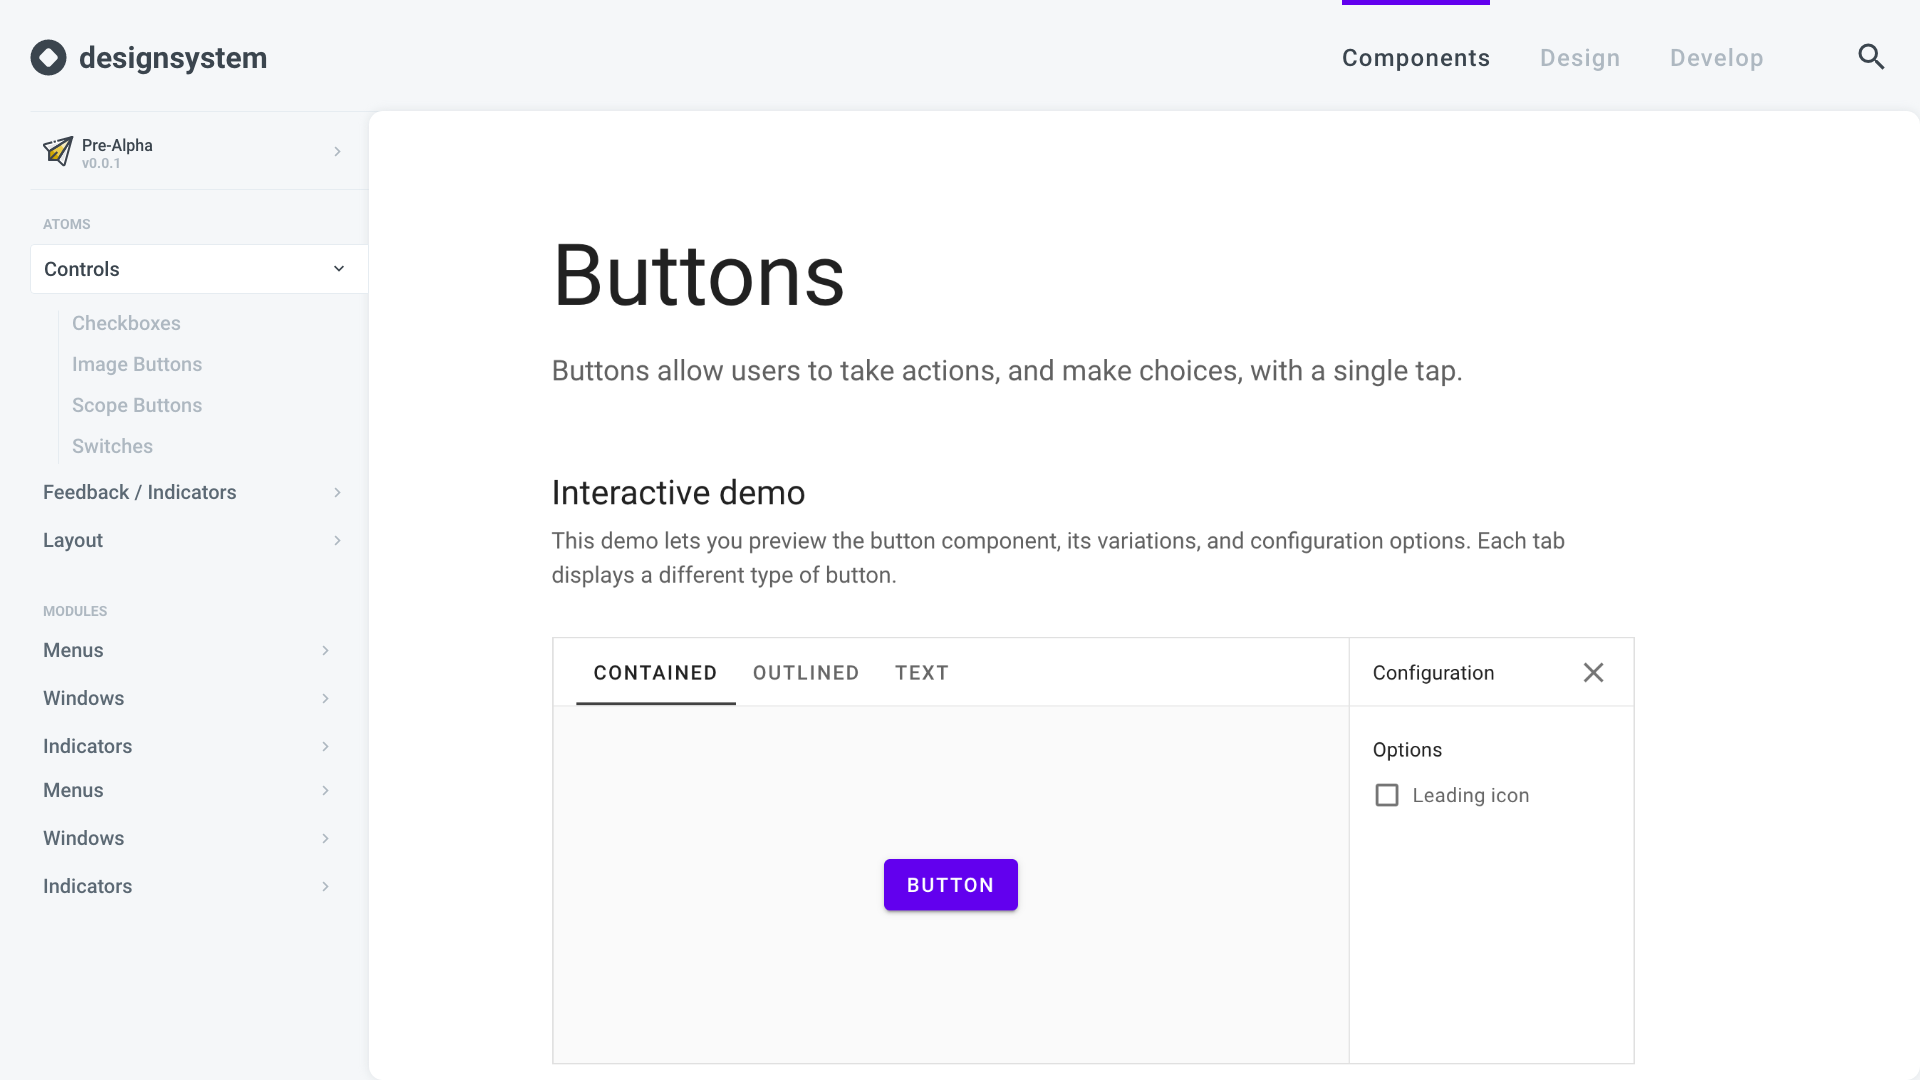
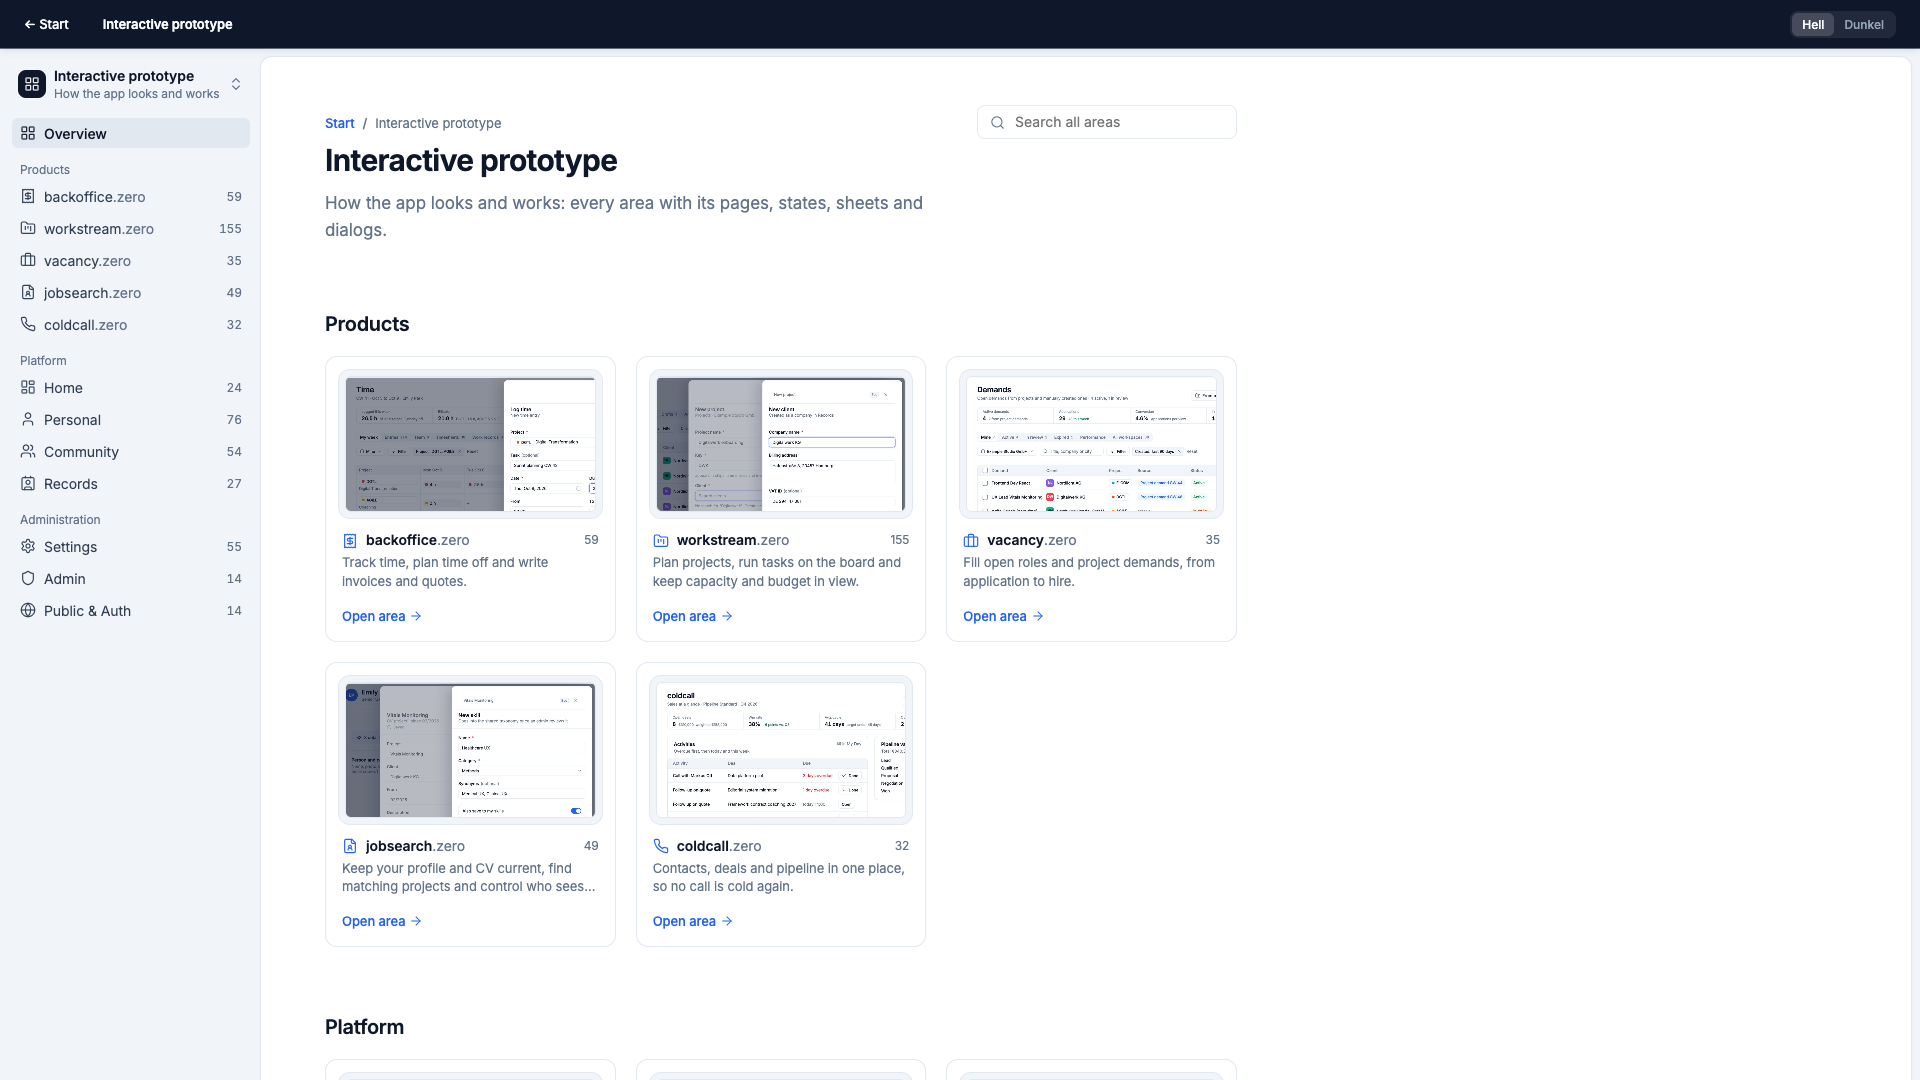
docs: replace screenshot with zero-design.itdone.de

diff --git a/README.md b/README.md
@@ -130,7 +130,7 @@ The list elements are not sorted by priority
 #### Lowlevel
 
 * *Work in progress*
-* **Designer:** this could be an interface deployed via **Github CI / Github Pages** ![lowlevel-designsystem](designsystem.png)
+* **Designer:** this could be an interface deployed via **Github CI / Github Pages**, like the [interactive prototype](https://zero-design.itdone.de/) ![Interactive prototype on zero-design.itdone.de](designsystem.png)
 
 ## Installation
 
